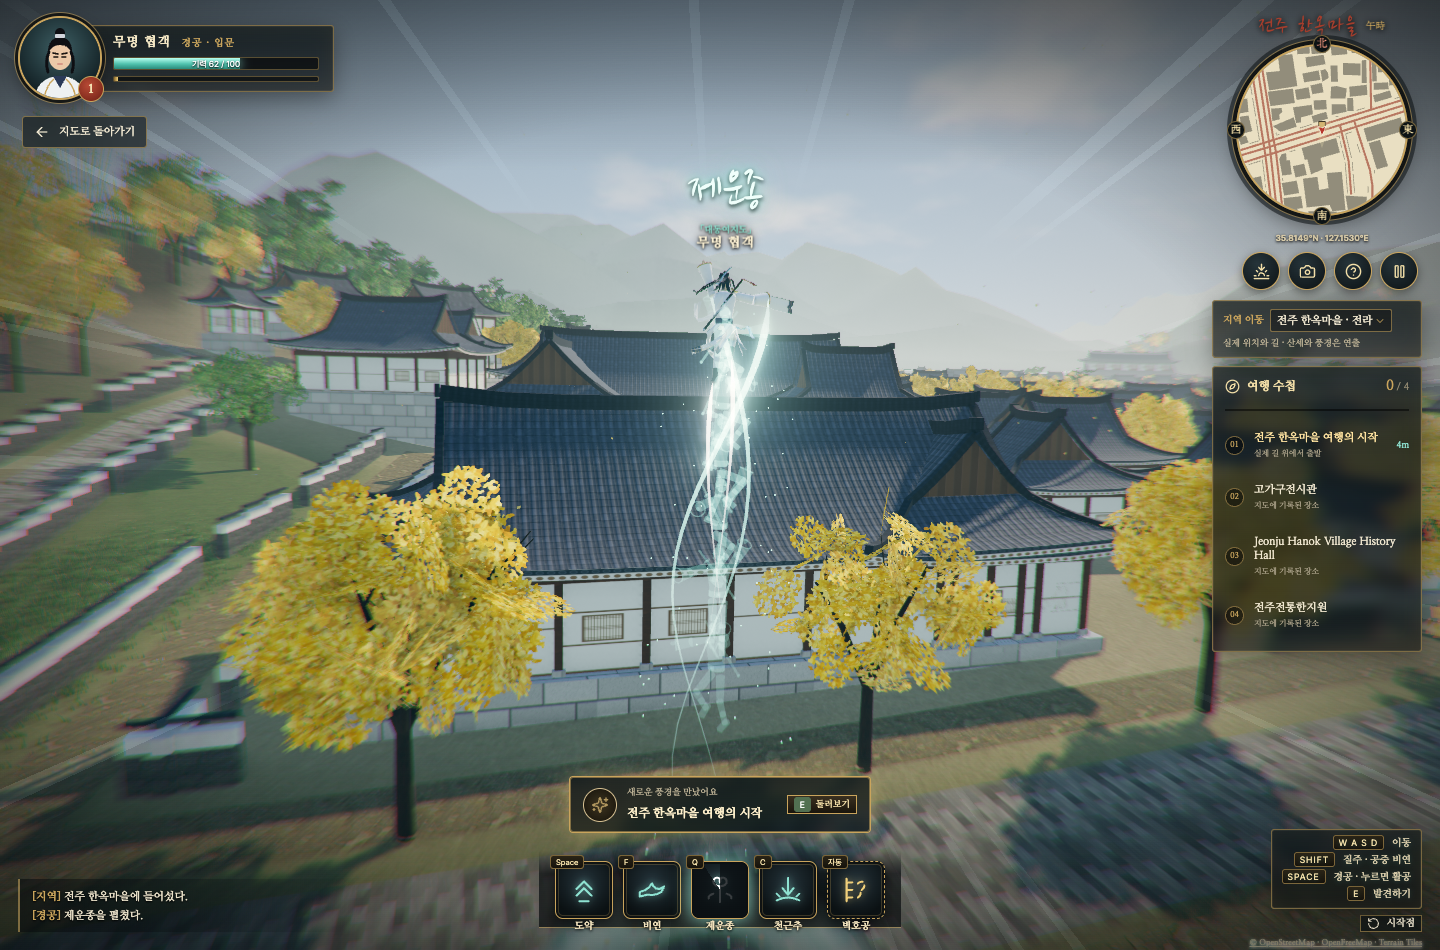
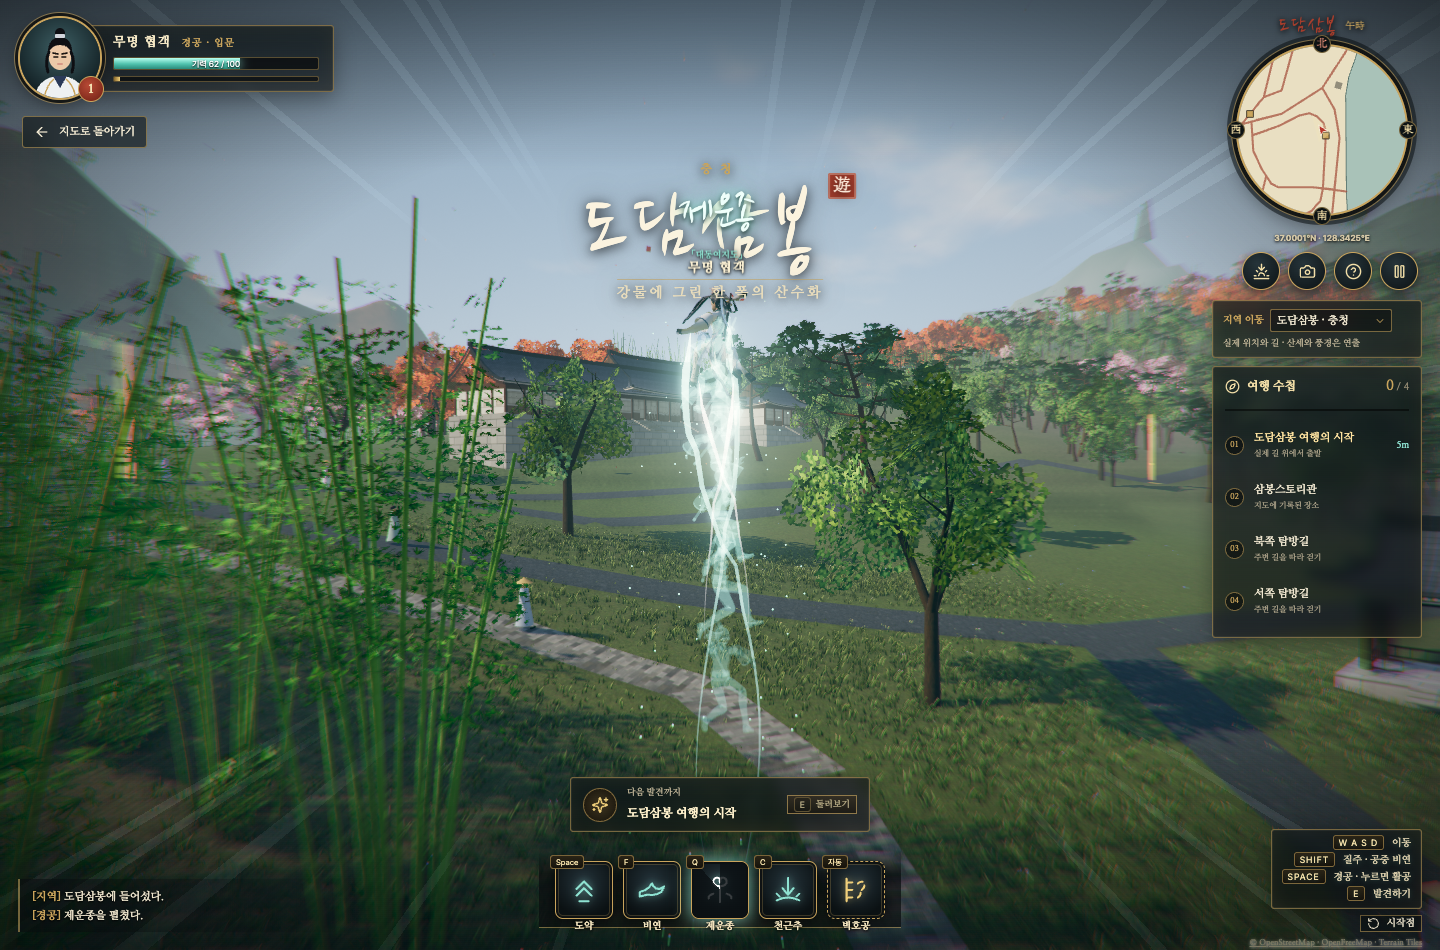
DOCS : CC0 인물·동작·바위·HDRI 출처 표기와 README 미리보기 갱신

diff --git a/src/App.tsx b/src/App.tsx
@@ -718,10 +718,31 @@ function App() {
               <a href="https://ambientcg.com" target="_blank" rel="noreferrer">
                 ambientCG
               </a>{" "}
-              (CC0 질감) · 나눔명조·나눔손글씨 붓 (OFL)
+              (CC0 질감) ·{" "}
+              <a
+                href="https://opengameart.org/content/vroid-studio-cc0-models"
+                target="_blank"
+                rel="noreferrer"
+              >
+                VRoid
+              </a>{" "}
+              ·{" "}
+              <a
+                href="https://quaternius.com/packs/universalanimationlibrary.html"
+                target="_blank"
+                rel="noreferrer"
+              >
+                Quaternius
+              </a>{" "}
+              (CC0 인물·동작) ·{" "}
+              <a href="https://polyhaven.com" target="_blank" rel="noreferrer">
+                Poly Haven
+              </a>{" "}
+              (CC0 바위·HDRI) · 나눔명조·나눔손글씨 붓 (OFL)
               <br />
-              로고, 풍경 일러스트와 여행 공간의 전통 건축·나무·인물 3D 모델은
-              대동여지도를 위해 직접 제작했습니다.
+              로고, 풍경 일러스트와 여행 공간의 전통 건축·나무 3D 모델은
+              대동여지도를 위해 직접 제작했고, 주인공 인물은 CC0 모델을 협객
+              차림으로 다시 꾸몄습니다.
               <br />
               현재 12곳을 담은 첫 번째 여행지도입니다.
             </p>

diff --git a/README.md b/README.md
@@ -2,7 +2,7 @@
 
 대한민국의 관광지를 실제 좌표와 입체 지형으로 탐색하는 반응형 웹앱입니다. 무협 게임의 두루마리 세계지도에서 영감을 받은 수묵 청록산수 지도(한지 바탕, 물결무늬 바다, 먹 음영과 석청·석록 산세, 붓글씨 지명, 낙관과 윤도 나침반, 흐르는 구름), 직접 제작한 산·길·해 로고와 Pretendard·나눔명조·나눔손글씨 붓을 사용합니다. 지도 탐험 외에 직접 캐릭터를 조작하는 3인칭 여행 시뮬레이션을 제공합니다.
 
-[수묵 지도 미리보기](docs/previews/landmark-map.png) · [수묵 지도 상세](docs/previews/map-detail-ink.png) · [여행 시뮬레이션 미리보기](docs/previews/journey.png) · [경복궁](docs/previews/journey-palace.png) · [불국사 노을](docs/previews/journey-sunset.png) · [하회마을 달밤](docs/previews/journey-night.png) · [남한강 수상 경공](docs/previews/journey-water.png) · [설악산 운해](docs/previews/journey-clouds.png) · [순천만 갈대](docs/previews/journey-reeds.png) · [경복궁 전망 정자](docs/previews/journey-viewpoint.png) · [제운종](docs/previews/journey-soar.png) · [수상 비연](docs/previews/journey-dash.png) · [수원 고도(古都)](docs/previews/journey-town.png) · [남한강 유등·풍등](docs/previews/journey-lanterns.png) · [모바일 미리보기](docs/previews/journey-mobile.png)
+[수묵 지도 미리보기](docs/previews/landmark-map.png) · [수묵 지도 상세](docs/previews/map-detail-ink.png) · [여행 시뮬레이션 미리보기](docs/previews/journey.png) · [경복궁](docs/previews/journey-palace.png) · [불국사 노을](docs/previews/journey-sunset.png) · [하회마을 달밤](docs/previews/journey-night.png) · [남한강 수상 경공](docs/previews/journey-water.png) · [설악산 운해](docs/previews/journey-clouds.png) · [순천만 갈대](docs/previews/journey-reeds.png) · [경복궁 전망 정자](docs/previews/journey-viewpoint.png) · [제운종](docs/previews/journey-soar.png) · [수상 비연](docs/previews/journey-dash.png) · [수원 고도(古都)](docs/previews/journey-town.png) · [설악산 바위 암벽](docs/previews/journey-rocks.png) · [남한강 유등·풍등](docs/previews/journey-lanterns.png) · [모바일 미리보기](docs/previews/journey-mobile.png)
 
 ## 온라인 데모
 
@@ -68,14 +68,14 @@ Chrome이 설치되어 있고 개발 서버가 실행 중인 환경에서는 `no
 
 ### 여행 공간 그래픽
 
-무협 MMORPG의 산수화 같은 화면을 참고해 웹에서 구현한 연출입니다. 모든 모델과 셰이더는 이 프로젝트에서 직접 작성했습니다.
+무협 MMORPG의 산수화 같은 화면을 참고해 웹에서 구현한 연출입니다. 셰이더와 건축·자연 모델은 이 프로젝트에서 직접 작성했고, 주인공 인물과 동작, 바위, 환경광에는 CC0(퍼블릭 도메인) 공개 자료를 다듬어 썼습니다.
 
-- **빛과 대기**: 물리 기반 하늘 돔(구름·태양·달·별)과 같은 하늘에서 구운 환경광, 높이 안개와 골짜기 물안개, 태양 빛줄기, GTAO 앰비언트 오클루전, 블룸, 필름 톤매핑과 색보정
+- **빛과 대기**: 물리 기반 하늘 돔(구름·태양·달·별), Poly Haven 실사 HDRI로 만든 시간대별 환경광(태양은 지우고 하늘·지면 반사광만 남겨 각 시간대 하늘 색으로 보정), 높이 안개와 골짜기 물안개, 태양 빛줄기, GTAO 앰비언트 오클루전, 블룸, 필름 톤매핑과 색보정
 - **지형**: 원본 고도를 Catmull-Rom 보간해 약 4m 격자로 세분하고 잔디·흙·바위·모래·낙엽·마사토를 경사와 토지 피복에 따라 섞습니다. 주변 약 29 × 29km의 실제 산줄기와 해안을 원경으로 표시합니다.
 - **전통 건축**: OSM 건물 윤곽을 직사각형 칸으로 나눠 팔작·맞배·우진각·초가지붕을 올립니다. 처마 곡선(앙곡·안허리), 기와, 막새, 서까래, 용마루·추녀마루, 궁궐의 양성바름·취두·잡상, 기둥·창방·공포와 단청, 창호, 장대석 기단과 계단, 중층 전각을 표현하며 가까운 건물에는 세부 목구조를 스트리밍합니다. 전주·하회마을 골목에는 기와 돌담이 이어집니다.
-- **자연**: 바람에 흔들리는 소나무·활엽수·메타세쿼이아·관목, GPU 잔디, 들꽃 군락, 순천만 갈대밭, 바위, 보성 차밭 이랑, 꽃잎·낙엽, 밤의 반딧불, 하늘을 도는 학 무리. 먼 숲은 이어진 수관으로 표현합니다.
+- **자연**: 바람에 흔들리는 소나무·활엽수·메타세쿼이아·관목, GPU 잔디, 들꽃 군락, 순천만 갈대밭, 실사 스캔 바위와 가파른 비탈의 암벽, 보성 차밭 이랑, 꽃잎·낙엽, 밤의 반딧불, 하늘을 도는 학 무리. 먼 숲은 이어진 수관으로 표현합니다.
 - **물과 구름**: 물가에서는 장면을 실시간으로 비추는 수면 반사(고품질), 물결과 프레넬 반사를 씁니다. 높은 산에서는 실제 주변 골짜기 고도를 따라 운해가 차오르고 봉우리가 그 위로 솟습니다.
-- **인물**: 그린 얼굴(검미·눈매), 높이 묶은 긴 머리와 뒷머리, 자수를 놓은 비단 도포와 얇은 겉옷 자락, 넓은 소매, 옥 노리개, 등에 멘 검과 술을 갖춘 협객. 네 갈래 도포 자락과 소매, 머리카락, 띠는 천·끈 물리로 움직이며 다리와 몸통에 부딪히지 않습니다. 걷기·달리기·도약·공중제비·활공·착지 자세가 이어지고 달밤에는 등롱을 듭니다.
+- **인물**: 뼈대가 있는 VRoid 샘플 인물(CC0)을 협객으로 다시 꾸몄습니다. 흰 비단 도포와 남색 단, 옥색 속옷, 띠와 옥 노리개, 넓은 소매, 상투와 은관, 긴 머리, 등에 멘 검과 술을 갖췄습니다. 서기·걷기·달리기·질주·도약·착지·구르기는 Quaternius의 모션 캡처 동작(CC0)을 불러올 때 VRM 뼈대에 리타깃해 씁니다. 걸음은 속도에 맞춰 위상을 맞춘 채 섞습니다. 활공·비연·제운종·천근추·공중제비 자세는 그 위에 절차적으로 겹칩니다. 도포 자락과 소매 자락, 겉옷, 머리카락, 띠는 천·끈 물리로 움직입니다. 눈을 깜박이고 달밤에는 등롱을 듭니다. 모델을 불러오지 못하면 코드로 만든 인물로 대신합니다.
 - **경공**: 3단 도약·활공·비연·제운종·천근추·벽호공·능파보와 기력, 재사용 대기시간. 기술마다 자세(앞공중제비, 나선 회전, 비행 자세, 벽 달리기, 착지 구르기)가 다르고, 잔상, 양 소매와 발끝의 빛 궤적, 기운 입자, 흙먼지, 물보라, 충격파, 카메라 흔들림과 기울기, 속도선과 방사형 흐림이 따라붙습니다.
 - **게임 화면**: 여행 화면은 전체 화면으로 열리며 먹색 바탕에 금테를 두른 HUD를 씁니다. 초상화와 기력·수련 게이지, 원형 미니맵과 시각(午時·酉時·子時), 여행 수첩, 경공 단축창(재사용 대기 표시), 지역 진입 타이틀, 강호 소식 창, 머리 위 이름표와 기술 이름 붓글씨, 경공 비급(도움말)이 있습니다.
 - **고도(古都) 연출**: 실제 건물 윤곽은 모두 전통 건축으로 그리고(배치와 길은 실제), 은행·벚꽃·단풍 가로수와 숲, 먼 산의 단풍·꽃 무리, 골목을 오가는 마을 사람, 골목 위 등롱 줄, 석등, 붓글씨 깃발, 물 위 나룻배를 둡니다.
@@ -102,7 +102,9 @@ Chrome이 설치되어 있고 개발 서버가 실행 중인 환경에서는 `no
 - `src/three/hanok.ts`: 전통 건축 생성기(지붕·처마·공포·단청·창호·기단)
 - `src/three/buildings.ts`: 건물 분류와 평면 분해, 근경 세부 스트리밍, 현대 건물, 돌담
 - `src/three/vegetation.ts`: 나무·잔디·바위·차밭
-- `src/three/character.ts`: 협객 모델, 걷기·달리기·도약·활공 자세, 천·머리카락 물리
+- `src/three/avatar.ts`: 주인공 인물(VRM) 불러오기, 동작 리타깃, 걸음 혼합, 경공 자세 합성, 잔상
+- `src/three/character.ts`: 천·머리카락 물리, 대체용 절차적 협객
+- `src/three/probes.ts`: 시간대별 HDRI 환경광
 - `src/three/motion.ts`: 경공 이동(도약·활공·비연·제운종·천근추·벽호공·능파보, 기력과 대기시간)
 - `src/three/npcs.ts`, `src/three/props.ts`: 마을 사람과 거리 소품(등롱 줄, 석등, 깃발, 나룻배)
 - `src/three/fx.ts`: 도약 기운, 착지 먼지, 수면 물결, 공중 궤적
@@ -110,13 +112,15 @@ Chrome이 설치되어 있고 개발 서버가 실행 중인 환경에서는 `no
 - `src/three/scenery.ts`: 연출된 풍경(기암 봉우리, 폭포, 정자, 연꽃, 유등)
 - `src/three/water.ts`, `src/three/ambient.ts`, `src/three/signature.ts`: 수면과 실시간 반사, 꽃잎·반딧불, 장소별 상징 지형
 - `src/three/placeStyles.ts`: 장소별 건축 양식·수종·연출 설정
-- `src/three/textures.ts`: CC0 질감 불러오기와 절차적 텍스처 도구
+- `src/three/textures.ts`: CC0 질감·스캔 바위 불러오기와 절차적 텍스처 도구
 - `src/three/world.ts`: 발견 판정
 - `src/three/geo.ts`: 좌표 변환, 고도 보간, 다각형 충돌과 안전한 출발점
 - `public/geo/`: 12개 지역의 로컬 공간 데이터와 출처
 - `scripts/build-geoscenes.mjs`: 벡터·고도 타일 수집 및 좌표 변환
 - `scripts/build-far-terrain.mjs`: 주변 원경 고도(약 29km, 150m 간격) 추가
 - `public/textures/`: CC0 지면·건축 질감과 출처(`CREDITS.json`)
+- `public/models/`, `public/env/`: CC0 인물·동작·바위 모델과 HDRI, 각 출처(`CREDITS.json`)
+- `scripts/pack-avatar.py`, `scripts/pack-hdri.py`: 인물·동작 파일과 HDRI를 웹용으로 줄이고 다시 칠하는 도구
 - `src/three/landmarks.ts`: 직접 제작한 입체 건축·자연 모델
 - `src/three/mapLandmarks.ts`: 지도 좌표와 입체 랜드마크 연결
 - `src/data.ts`: 관광지 데이터와 검색·필터 함수
@@ -131,9 +135,11 @@ Chrome이 설치되어 있고 개발 서버가 실행 중인 환경에서는 `no
 
 사진은 Wikimedia Commons에서 가져왔으며 각 원본의 라이선스가 적용됩니다. 앱의 왼쪽 하단 정보 버튼에서 개별 출처와 라이선스를 볼 수 있습니다. 사진은 화면에 맞게 잘라 표시합니다. 로고와 사진 로딩 실패 시 표시하는 일러스트는 이 프로젝트에서 제작했습니다.
 
-[Pretendard](https://github.com/orioncactus/pretendard)는 로컬 가변 WOFF2 파일로 포함했습니다. SIL Open Font License 원문은 `public/fonts/OFL.txt`에 있습니다. 지도의 붓글씨와 명조체는 [나눔명조](https://fonts.google.com/specimen/Nanum+Myeongjo)와 [나눔손글씨 붓](https://fonts.google.com/specimen/Nanum+Brush+Script)(SIL OFL 1.1, `public/fonts/OFL-Nanum.txt`)을 Google Fonts의 글자 범위별 조각으로 받아 `public/fonts/nanum-*`에 두고 `src/fonts.css`에서 필요한 조각만 불러옵니다. 입체 모델과 여행 공간은 [Three.js](https://threejs.org/)로 직접 구성했습니다.
+[Pretendard](https://github.com/orioncactus/pretendard)는 로컬 가변 WOFF2 파일로 포함했습니다. SIL Open Font License 원문은 `public/fonts/OFL.txt`에 있습니다. 지도의 붓글씨와 명조체는 [나눔명조](https://fonts.google.com/specimen/Nanum+Myeongjo)와 [나눔손글씨 붓](https://fonts.google.com/specimen/Nanum+Brush+Script)(SIL OFL 1.1, `public/fonts/OFL-Nanum.txt`)을 Google Fonts의 글자 범위별 조각으로 받아 `public/fonts/nanum-*`에 두고 `src/fonts.css`에서 필요한 조각만 불러옵니다. 입체 모델과 여행 공간은 [Three.js](https://threejs.org/)로 구성했습니다.
 
 여행 공간의 지면·회벽·목재·수피 질감은 [ambientCG](https://ambientcg.com)의 CC0(퍼블릭 도메인) 자료를 512px로 줄여 사용합니다. 자료별 원본은 `public/textures/CREDITS.json`에 있습니다. 기와·단청·창호·초가·나뭇잎·물결 텍스처는 코드로 생성합니다.
+
+주인공 인물은 VRoid 프로젝트(pixiv)의 [VRoid Studio CC0 샘플 아바타](https://opengameart.org/content/vroid-studio-cc0-models) "Base_Male"을, 동작은 Quaternius의 [Universal Animation Library](https://quaternius.com/packs/universalanimationlibrary.html)를 사용합니다. 바위(rock_07, rock_09, boulder_01, rock_face_01)와 HDRI(alps_field, hilly_terrain_01, kloppenheim_02)는 [Poly Haven](https://polyhaven.com) 자료입니다. 모두 CC0이며 웹용으로 줄이고 옷 색을 바꾸는 등 손질했습니다. 자세한 내용은 `public/models/CREDITS.json`과 `public/env/CREDITS.json`에 있습니다.
 
 ## 현재 범위와 운영 시 고려사항
 
